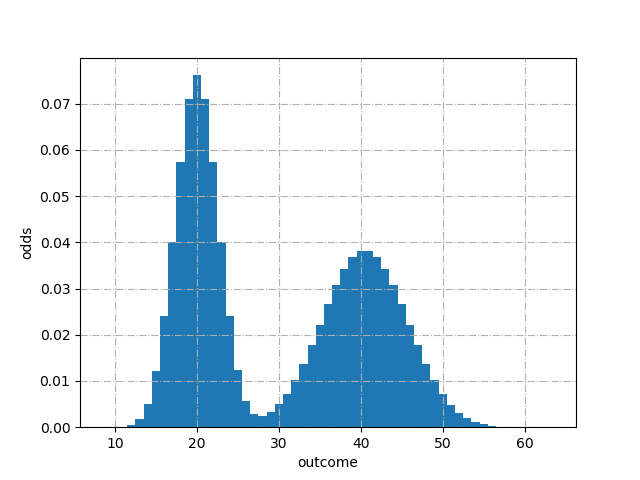
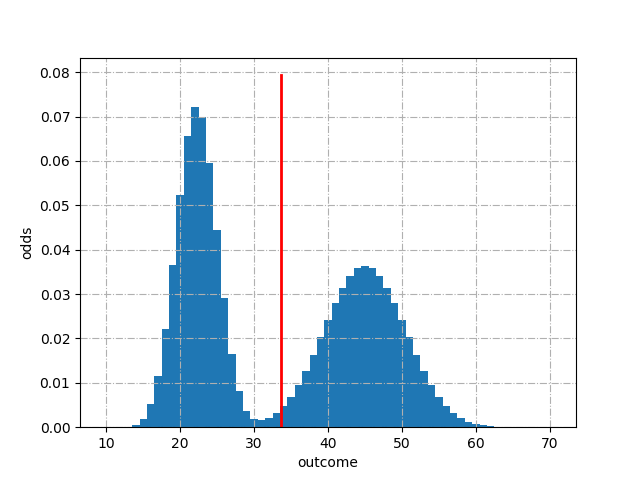
added average line to plots

diff --git a/python_dice/src/probability_distribution.py b/python_dice/src/probability_distribution.py
@@ -18,19 +18,21 @@ class ProbabilityDistribution(i_probability_distribution.IProbabilityDistributio
             self._outcome_count += value
 
     def get_histogram(self) -> Image:
+        max_hight = max([self._result_map[key]/self._outcome_count for key in self._result_map])
         item_list = [item for item in self._get_show_histogram_form().items()]
         item_list.sort(key=lambda tup: tup[0])
         y_values = [value for _, value in item_list]
         x_values = [key for key, _ in item_list]
         bins = [key - 0.5 for key, _ in item_list]
         bins.append(item_list[-1][0] + 0.5)
+        average = self.average()
 
         _, axis = pyplot.subplots()
         axis.hist(x_values, weights=y_values, bins=bins)
         axis.grid(True, linestyle="-.")
         axis.set_ylabel("odds")
         axis.set_xlabel("outcome")
-
+        axis.plot([average, average], [0, max_hight * 1.1], '-r', lw=2, label="Average = %d" % average)
         buffer = io.BytesIO()
         pyplot.savefig(buffer, format="png")
         buffer.seek(0)

diff --git a/python_dice/test/test_python_dice_interpreter.py b/python_dice/test/test_python_dice_interpreter.py
@@ -67,7 +67,7 @@ class TestPythonDiceInterpreter(unittest.TestCase):
         ]
         self.assertEqual(12, interpreter.max(program)["stdout"])
 
-    def disable_test_get_histogram(self):
+    def disabled_test_get_histogram(self):
         interpreter = python_dice_interpreter.PythonDiceInterpreter()
         program = [
             "VAR save_roll = 1d20 + 8",
